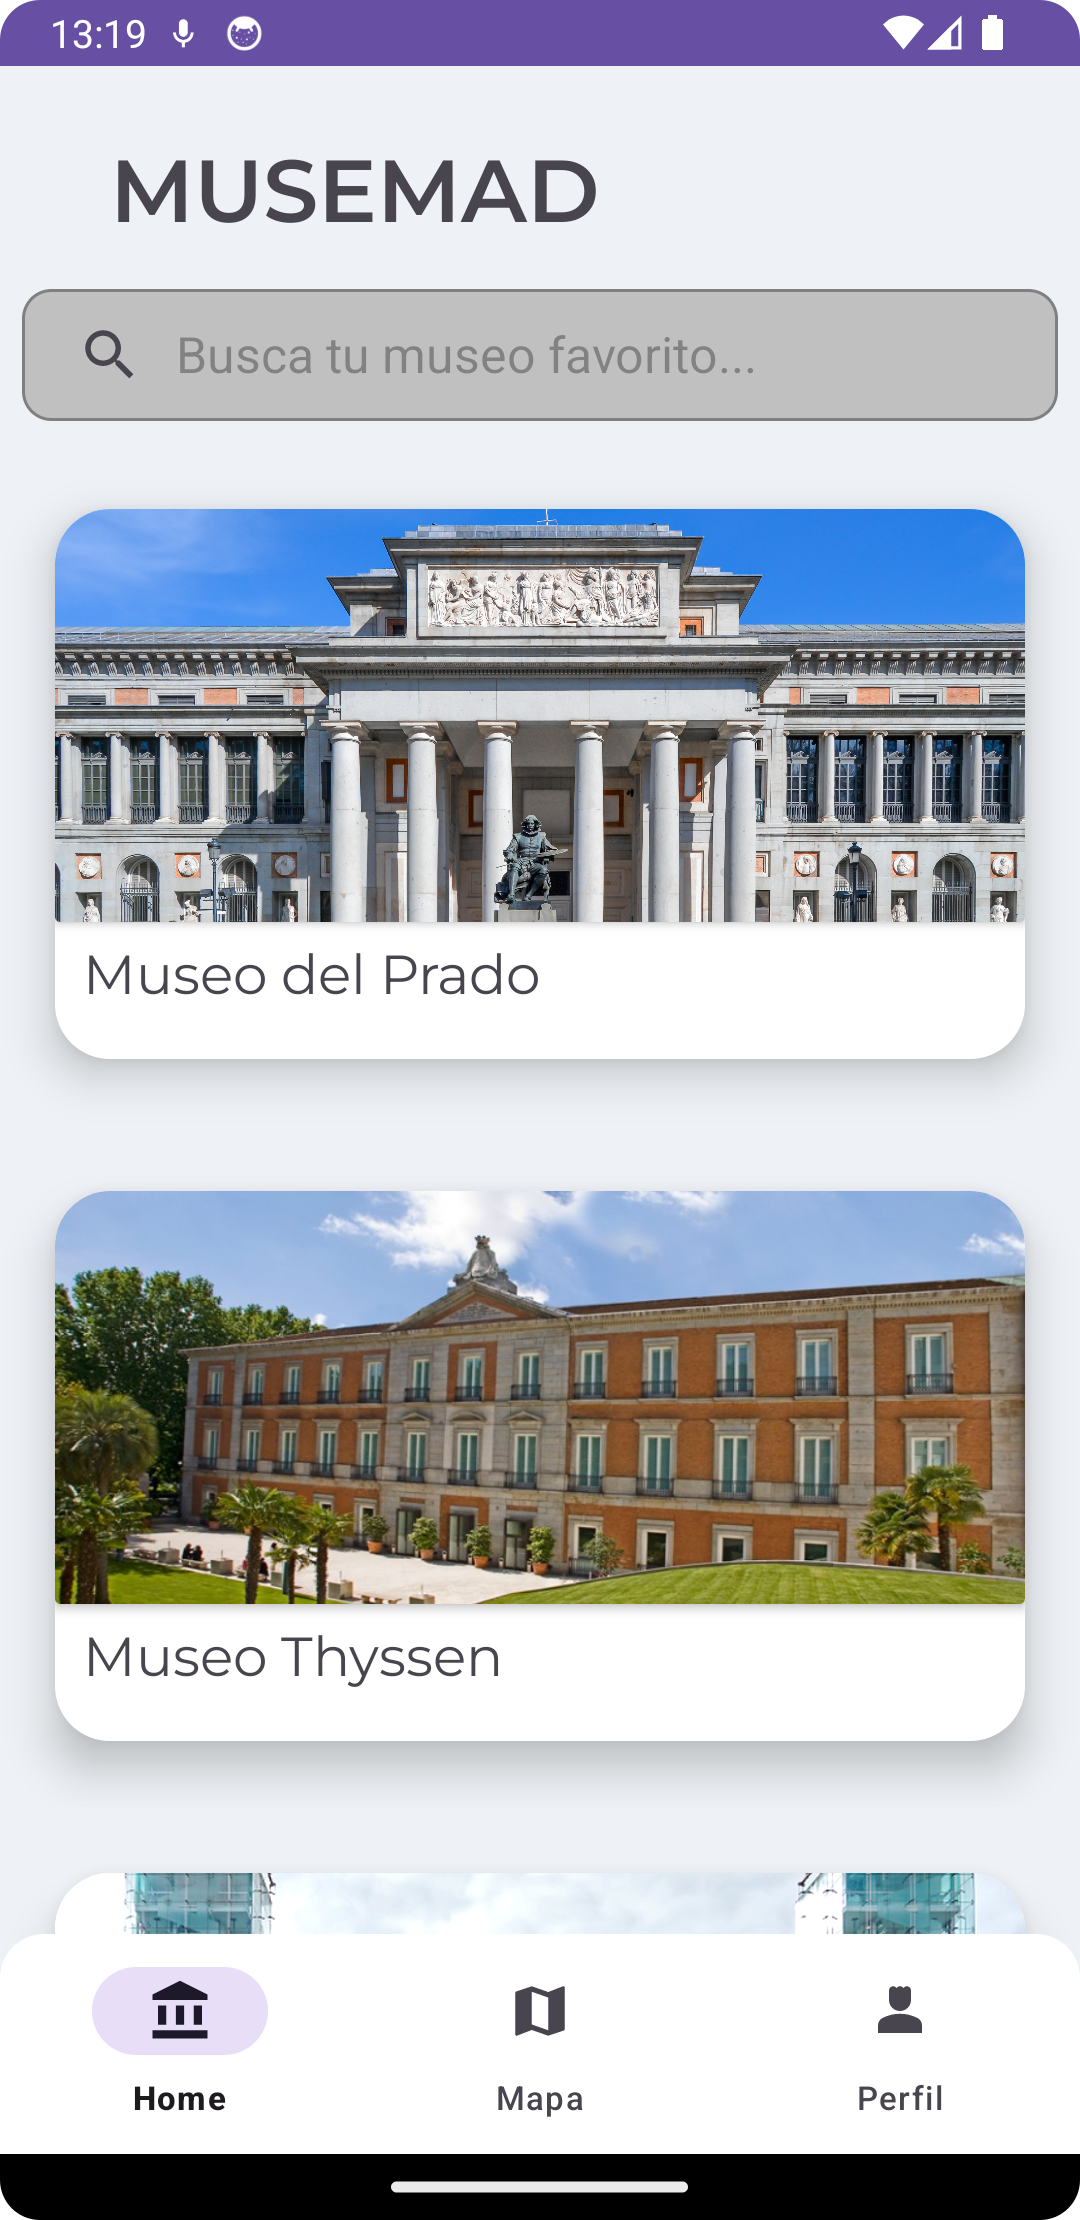
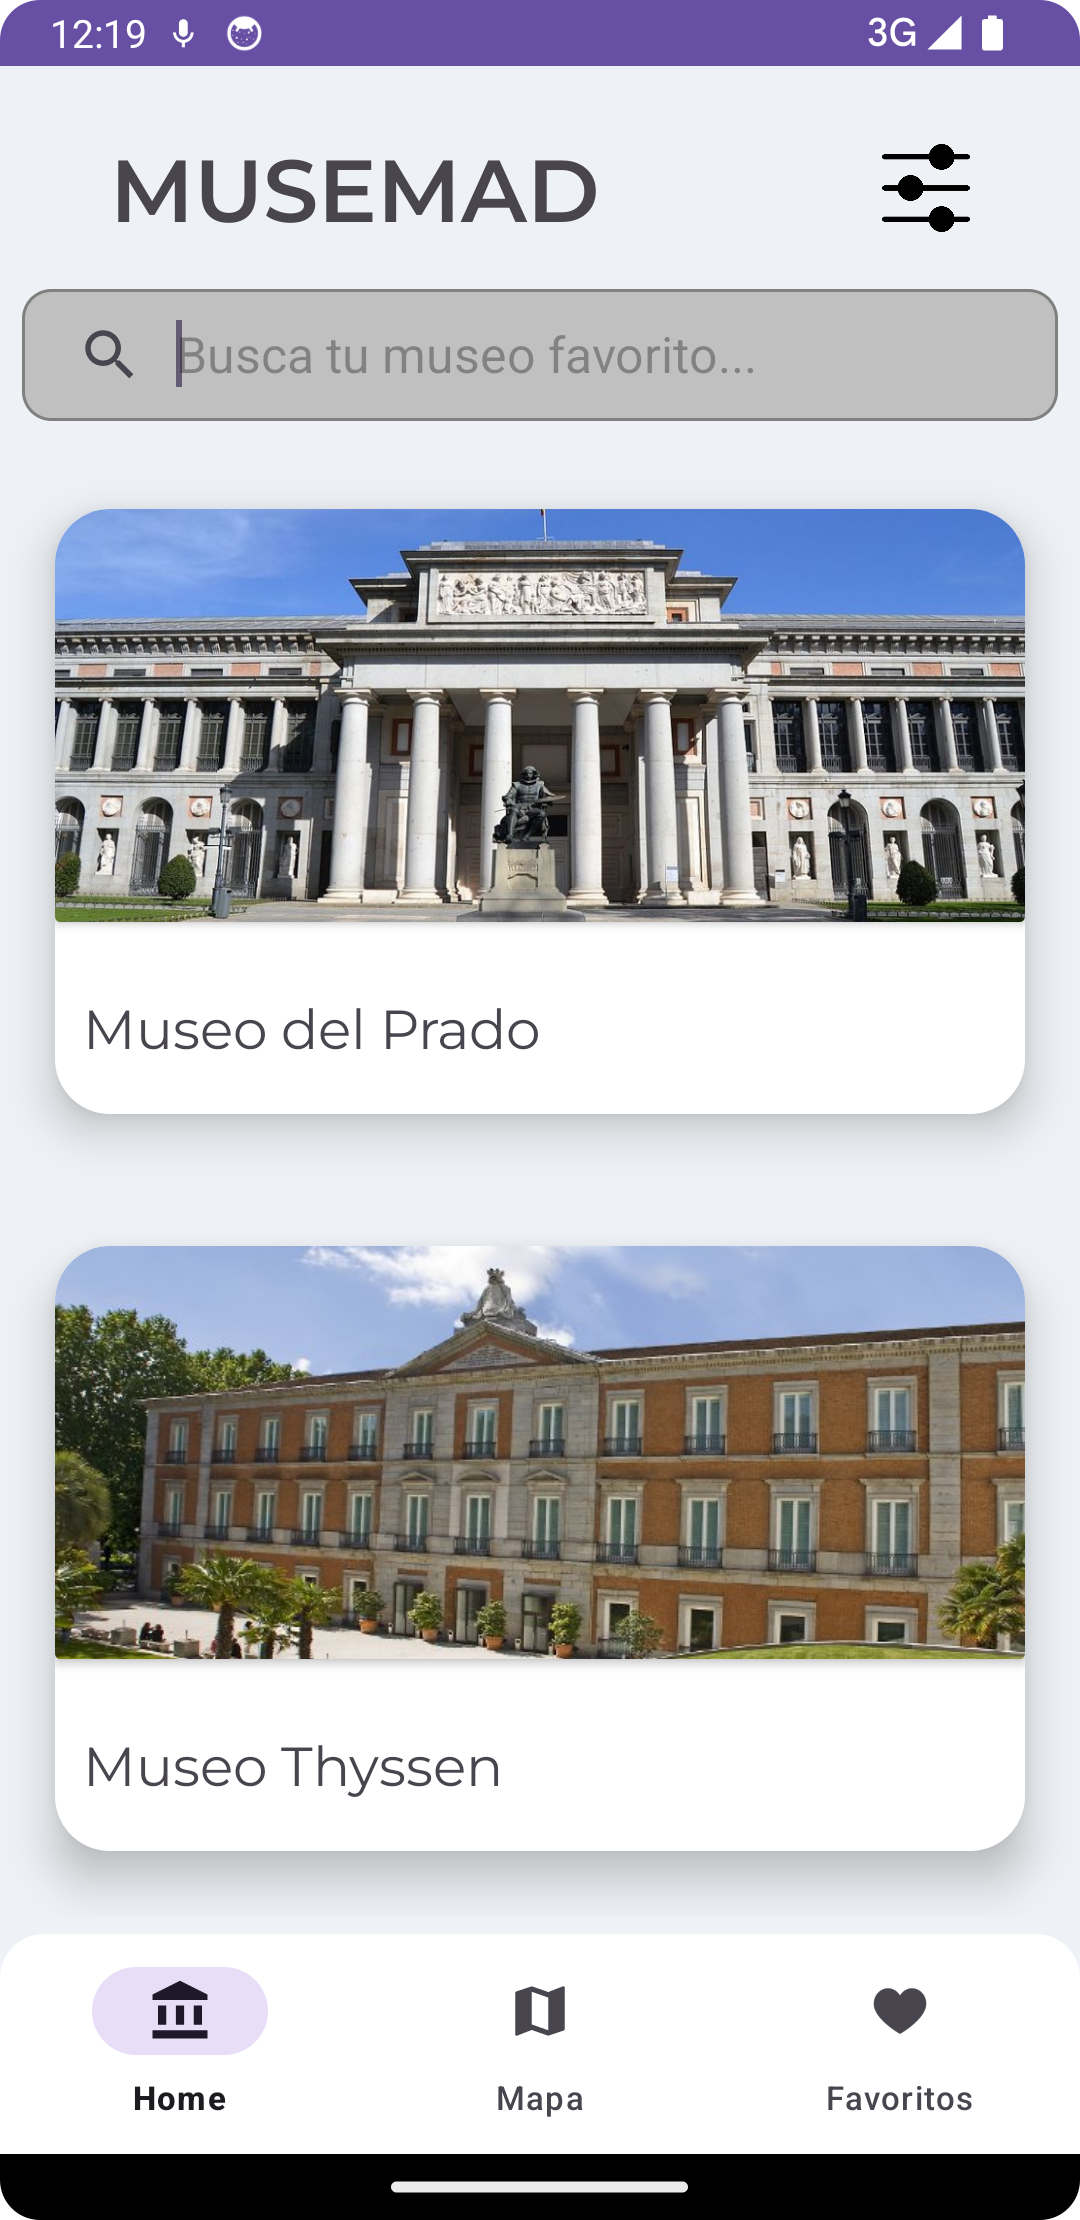
Actualizado README

diff --git a/README.md b/README.md
@@ -22,23 +22,36 @@
 <img src="img/homev2.png" alt="Primera vista en el home" width="364" height="720"/>
 </p>
 
-#### Info Museo
+##### El *AppBarLayout* se contraerá al bajar en el *RecyclerView* dejando así una vista más clara de las tarjetas con los museos
 <p align="center">
-<img src="img/museuminfov1.png" alt="Imagen del login" width="364" height="720"/>
+<img src="img/home2v1.png" alt="Primera vista en el home" width="364" height="720"/>
+</p>
+
+##### Por último también contamos con un *SearchView* funcional para filtrar los museos por su nombre
+<p align="center">
+<img src="img/homesv.png" alt="Primera vista en el home" width="364" height="720"/>
+</p>
+
+#### Settings
+
+#### Detail Museo
+##### Al pulsar en una de las tarjetas, nos enviará a una nueva vista en la que podremos ver los detalles del museo además de agregarlo a favoritos usando el botón de la derecha, para así poderlo ver en nuestra vista de favoritos
+<p align="center">
+<img src="img/museuminfov1.png" alt="Imagen de DetailMuseum" width="364" height="720"/>
 </p>
 
 ## Mapa
 
 #### Mapa
-##### *Por completar*
+##### Utilizando la API de *Google Maps* hemos hecho un mapa con distintos símbolos los cuales representan la ubicación de los distintos museos, al pulsar en uno de estos símbolos, podremos abrir *Google Maps* con la dirección de este museo o abrir la vista de *DetailMuseum* desde aqui
 <p align="center">
 <img src="img/mapav0.png" alt="Imagen del fragment del mapa" width="364" height="720"/>
 </p>
 
-## Perfil
+## Favoritos
 
-#### Perfil
-##### En el apartado de *Perfil* contamos con varias opciones para la applicación (Modo noche, notificaciones...) Además el usuario puede ver los museos marcados como favorito, o los marcados para visitar más tarde
+#### Favoritos
+##### En el apartado de *Favoritos* veremos los museos que tengamos agregados a favoritos en una vista distinta, para así poderlos buscar más facilmente si es que un museo nos ha gustado o queremos visitarlo próximamente
 <p align="center">
-<img src="img/userv1.png" alt="Imagen del fragment del mapa" width="364" height="720"/>
+<img src="img/favv1.png" alt="Imagen del fragment de favoritos" width="364" height="720"/>
 </p>
